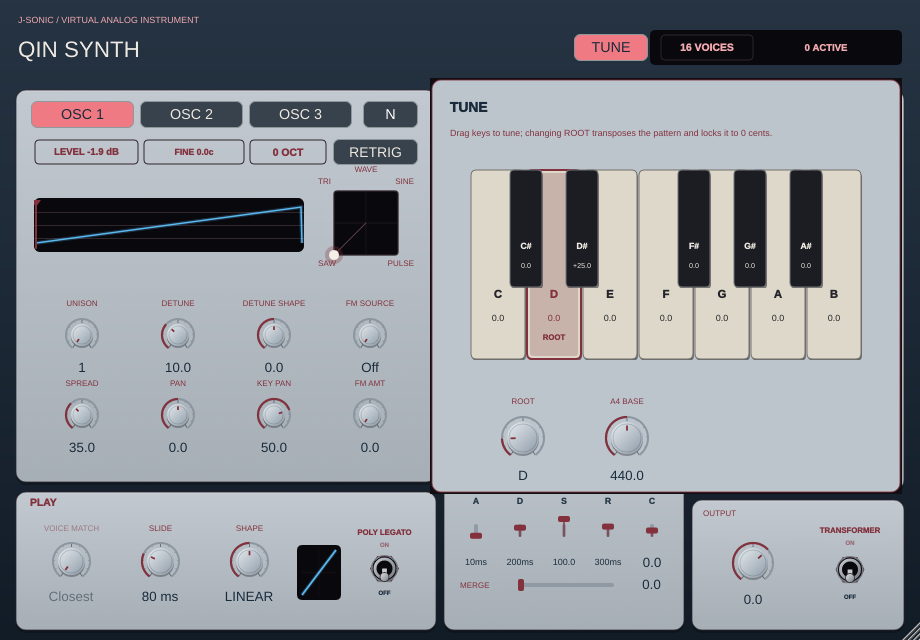
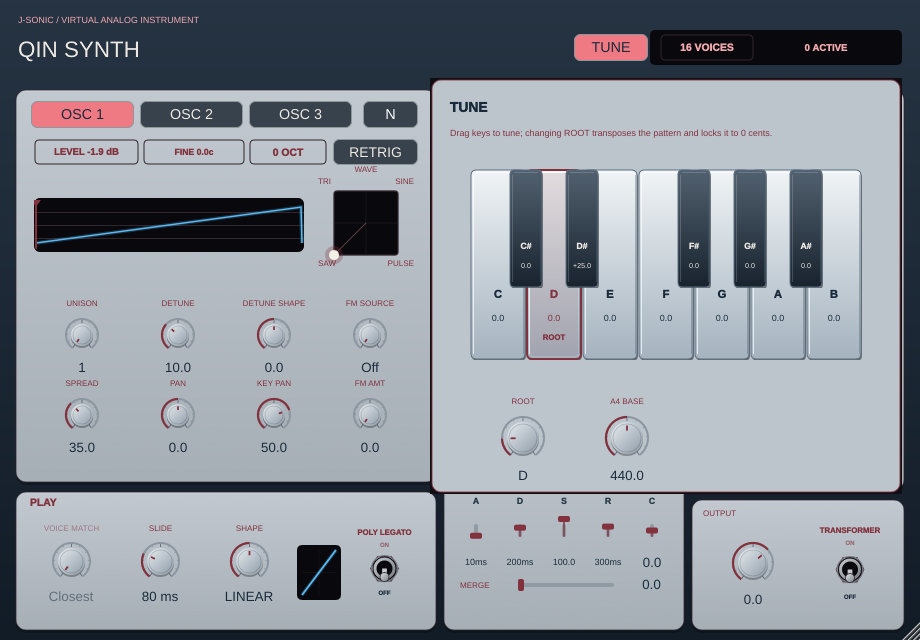
Give Qin tuning keys a metallic finish

Changed region(s): [[0.487, 0.25, 0.9435, 0.5625]]

diff --git a/projects/QinSynth/Source/PluginEditor.cpp b/projects/QinSynth/Source/PluginEditor.cpp
@@ -135,16 +135,23 @@ void QinTuningKey::setIdentity(juce::String note,bool black,bool root)
 void QinTuningKey::paint(juce::Graphics& g)
 {
     const auto area=getLocalBounds().toFloat().reduced(1.f);
-    const auto face=blackKey ? juce::Colour(0xff1c1d22) : juce::Colour(0xffddd8ca);
-    const auto text=blackKey ? stageStyle::foreground : juce::Colour(0xff24242a);
+    const auto text=blackKey ? stageStyle::foreground : panelInk;
     g.setColour(juce::Colours::black.withAlpha(.45f));
     g.fillRoundedRectangle(area.translated(1.f,2.f),blackKey ? 4.f : 5.f);
-    g.setColour(face); g.fillRoundedRectangle(area,blackKey ? 4.f : 5.f);
-    g.setColour(rootKey ? accent : blackKey ? juce::Colour(0xff73757a) : juce::Colour(0xff77716a));
+    g.setGradientFill(juce::ColourGradient(
+        blackKey ? juce::Colour(0xff526170) : juce::Colour(0xfff0f4f6),area.getTopLeft(),
+        blackKey ? juce::Colour(0xff18232e) : juce::Colour(0xffa5b3bf),area.getBottomLeft(),false));
+    g.fillRoundedRectangle(area,blackKey ? 4.f : 5.f);
+    g.setColour(juce::Colours::white.withAlpha(blackKey ? .18f : .72f));
+    g.drawHorizontalLine(juce::roundToInt(area.getY()+2.f),area.getX()+4.f,area.getRight()-4.f);
+    g.drawVerticalLine(juce::roundToInt(area.getX()+2.f),area.getY()+5.f,area.getBottom()-5.f);
+    g.setColour(juce::Colour(0xff465766).withAlpha(blackKey ? .55f : .35f));
+    g.drawVerticalLine(juce::roundToInt(area.getRight()-2.f),area.getY()+5.f,area.getBottom()-5.f);
+    g.setColour(rootKey ? accent : juce::Colour(0xff5d7081));
     g.drawRoundedRectangle(area,blackKey ? 4.f : 5.f,rootKey ? 2.f : 1.f);
     if(rootKey)
     {
-        g.setColour(accent.withAlpha(.22f));
+        g.setColour(accent.withAlpha(.12f));
         g.fillRoundedRectangle(area.reduced(3.f),3.f);
     }
     const auto cents=rootKey ? 0.0 : getValue();
